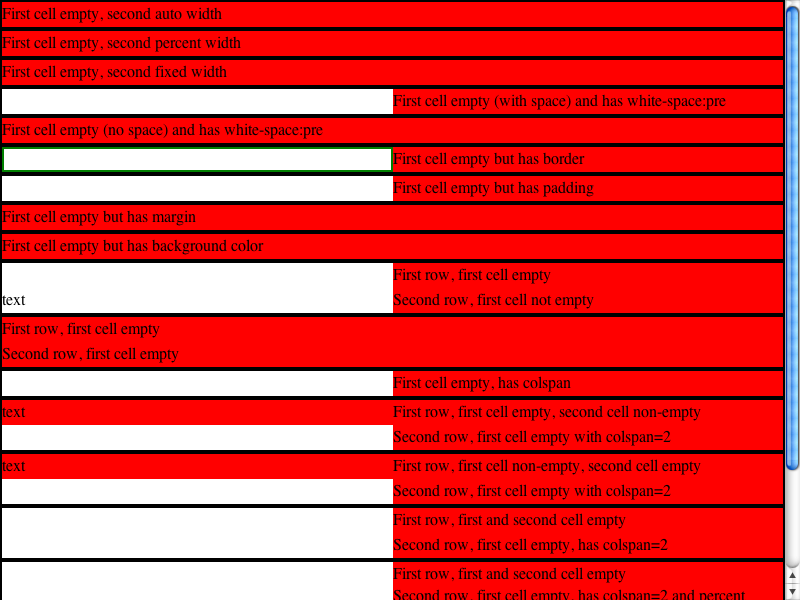
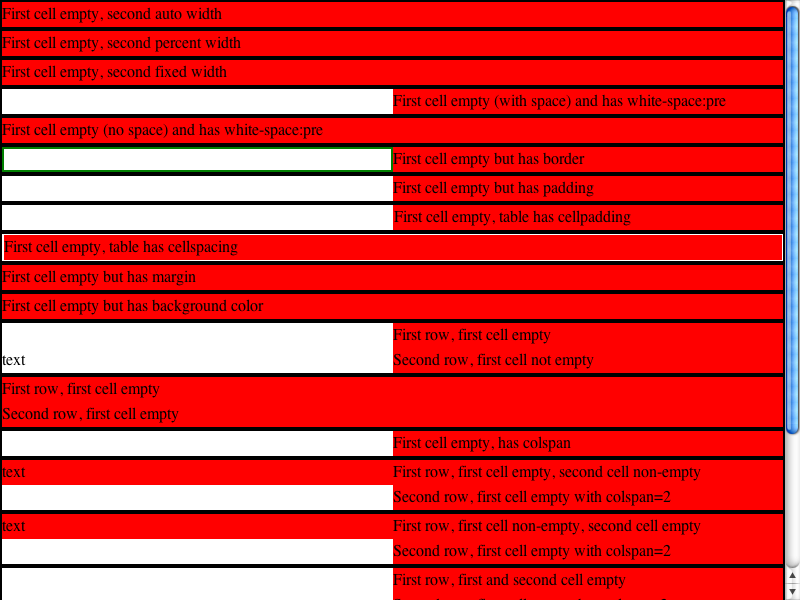
LayoutTests:
Reviewed by Mitz.

        Test changes for http://bugs.webkit.org/show_bug.cgi?id=14332
        Bug 14332: REGRESSION (r21145): <td> width ignored
        <rdar://problem/5290123>

        - expand empty-cells.html to cover non-zero cellpadding case too
        - update other related tests (none of these affect pixel results)

        * fast/css/acid2-expected.txt:
        * fast/css/acid2-pixel-expected.txt:
        * fast/table/032-expected.txt:
        * fast/table/empty-cells-expected.checksum:
        * fast/table/empty-cells-expected.png:
        * fast/table/empty-cells-expected.txt:
        * fast/table/empty-cells.html:
        * fast/table/empty-section-crash-expected.txt:
        * http/tests/misc/acid2-expected.txt:
        * http/tests/misc/acid2-pixel-expected.txt:
        * tables/mozilla/bugs/bug222467-expected.txt:
        * tables/mozilla/bugs/bug78162-expected.txt:

WebCore:

        Reviewed by Mitz.

        Fix http://bugs.webkit.org/show_bug.cgi?id=14332
        Bug 14332: REGRESSION (r21145): <td> width ignored
        <rdar://problem/5290123>

        Cells in table with non-zero cellpadding are not considered empty.

        * rendering/AutoTableLayout.cpp:
        (WebCore::AutoTableLayout::recalcColumn):

Identifier: 18625@main
git-svn-id: https://svn.webkit.org/repository/webkit/trunk@23850 268f45cc-cd09-0410-ab3c-d52691b4dbfc

Changed region(s): [[0.0, 0.33, 1.0, 1.0]]

diff --git a/LayoutTests/fast/table/empty-cells.html b/LayoutTests/fast/table/empty-cells.html
@@ -78,6 +78,24 @@ table { border: 2px solid black }
 </tbody>
 </table>
 
+<table id=c cellpadding="1" cellspacing="0" width="100%">
+<tbody>
+<tr>
+<td class="cell1"> </td>
+<td class="cell2 percent">First cell empty, table has cellpadding</td>
+</tr>
+</tbody>
+</table>
+
+<table id=c cellpadding="0" cellspacing="1" width="100%">
+<tbody>
+<tr>
+<td class="cell1"> </td>
+<td class="cell2 percent">First cell empty, table has cellspacing</td>
+</tr>
+</tbody>
+</table>
+
 <table id=c cellpadding="0" cellspacing="0" width="100%">
 <tbody>
 <tr>

diff --git a/WebCore/rendering/AutoTableLayout.cpp b/WebCore/rendering/AutoTableLayout.cpp
@@ -69,7 +69,7 @@ void AutoTableLayout::recalcColumn(int effCol)
                 RenderTableSection::CellStruct current = section->cellAt(i, effCol);
                 RenderTableCell* cell = current.cell;
                 
-                bool cellHasContent = cell && (cell->firstChild() || cell->style()->hasBorder() || cell->style()->hasPadding());
+                bool cellHasContent = cell && (cell->firstChild() || m_table->cellPadding() || cell->style()->hasBorder() || cell->style()->hasPadding());
                 if (cellHasContent)
                     l.emptyCellsOnly = false;
                     
